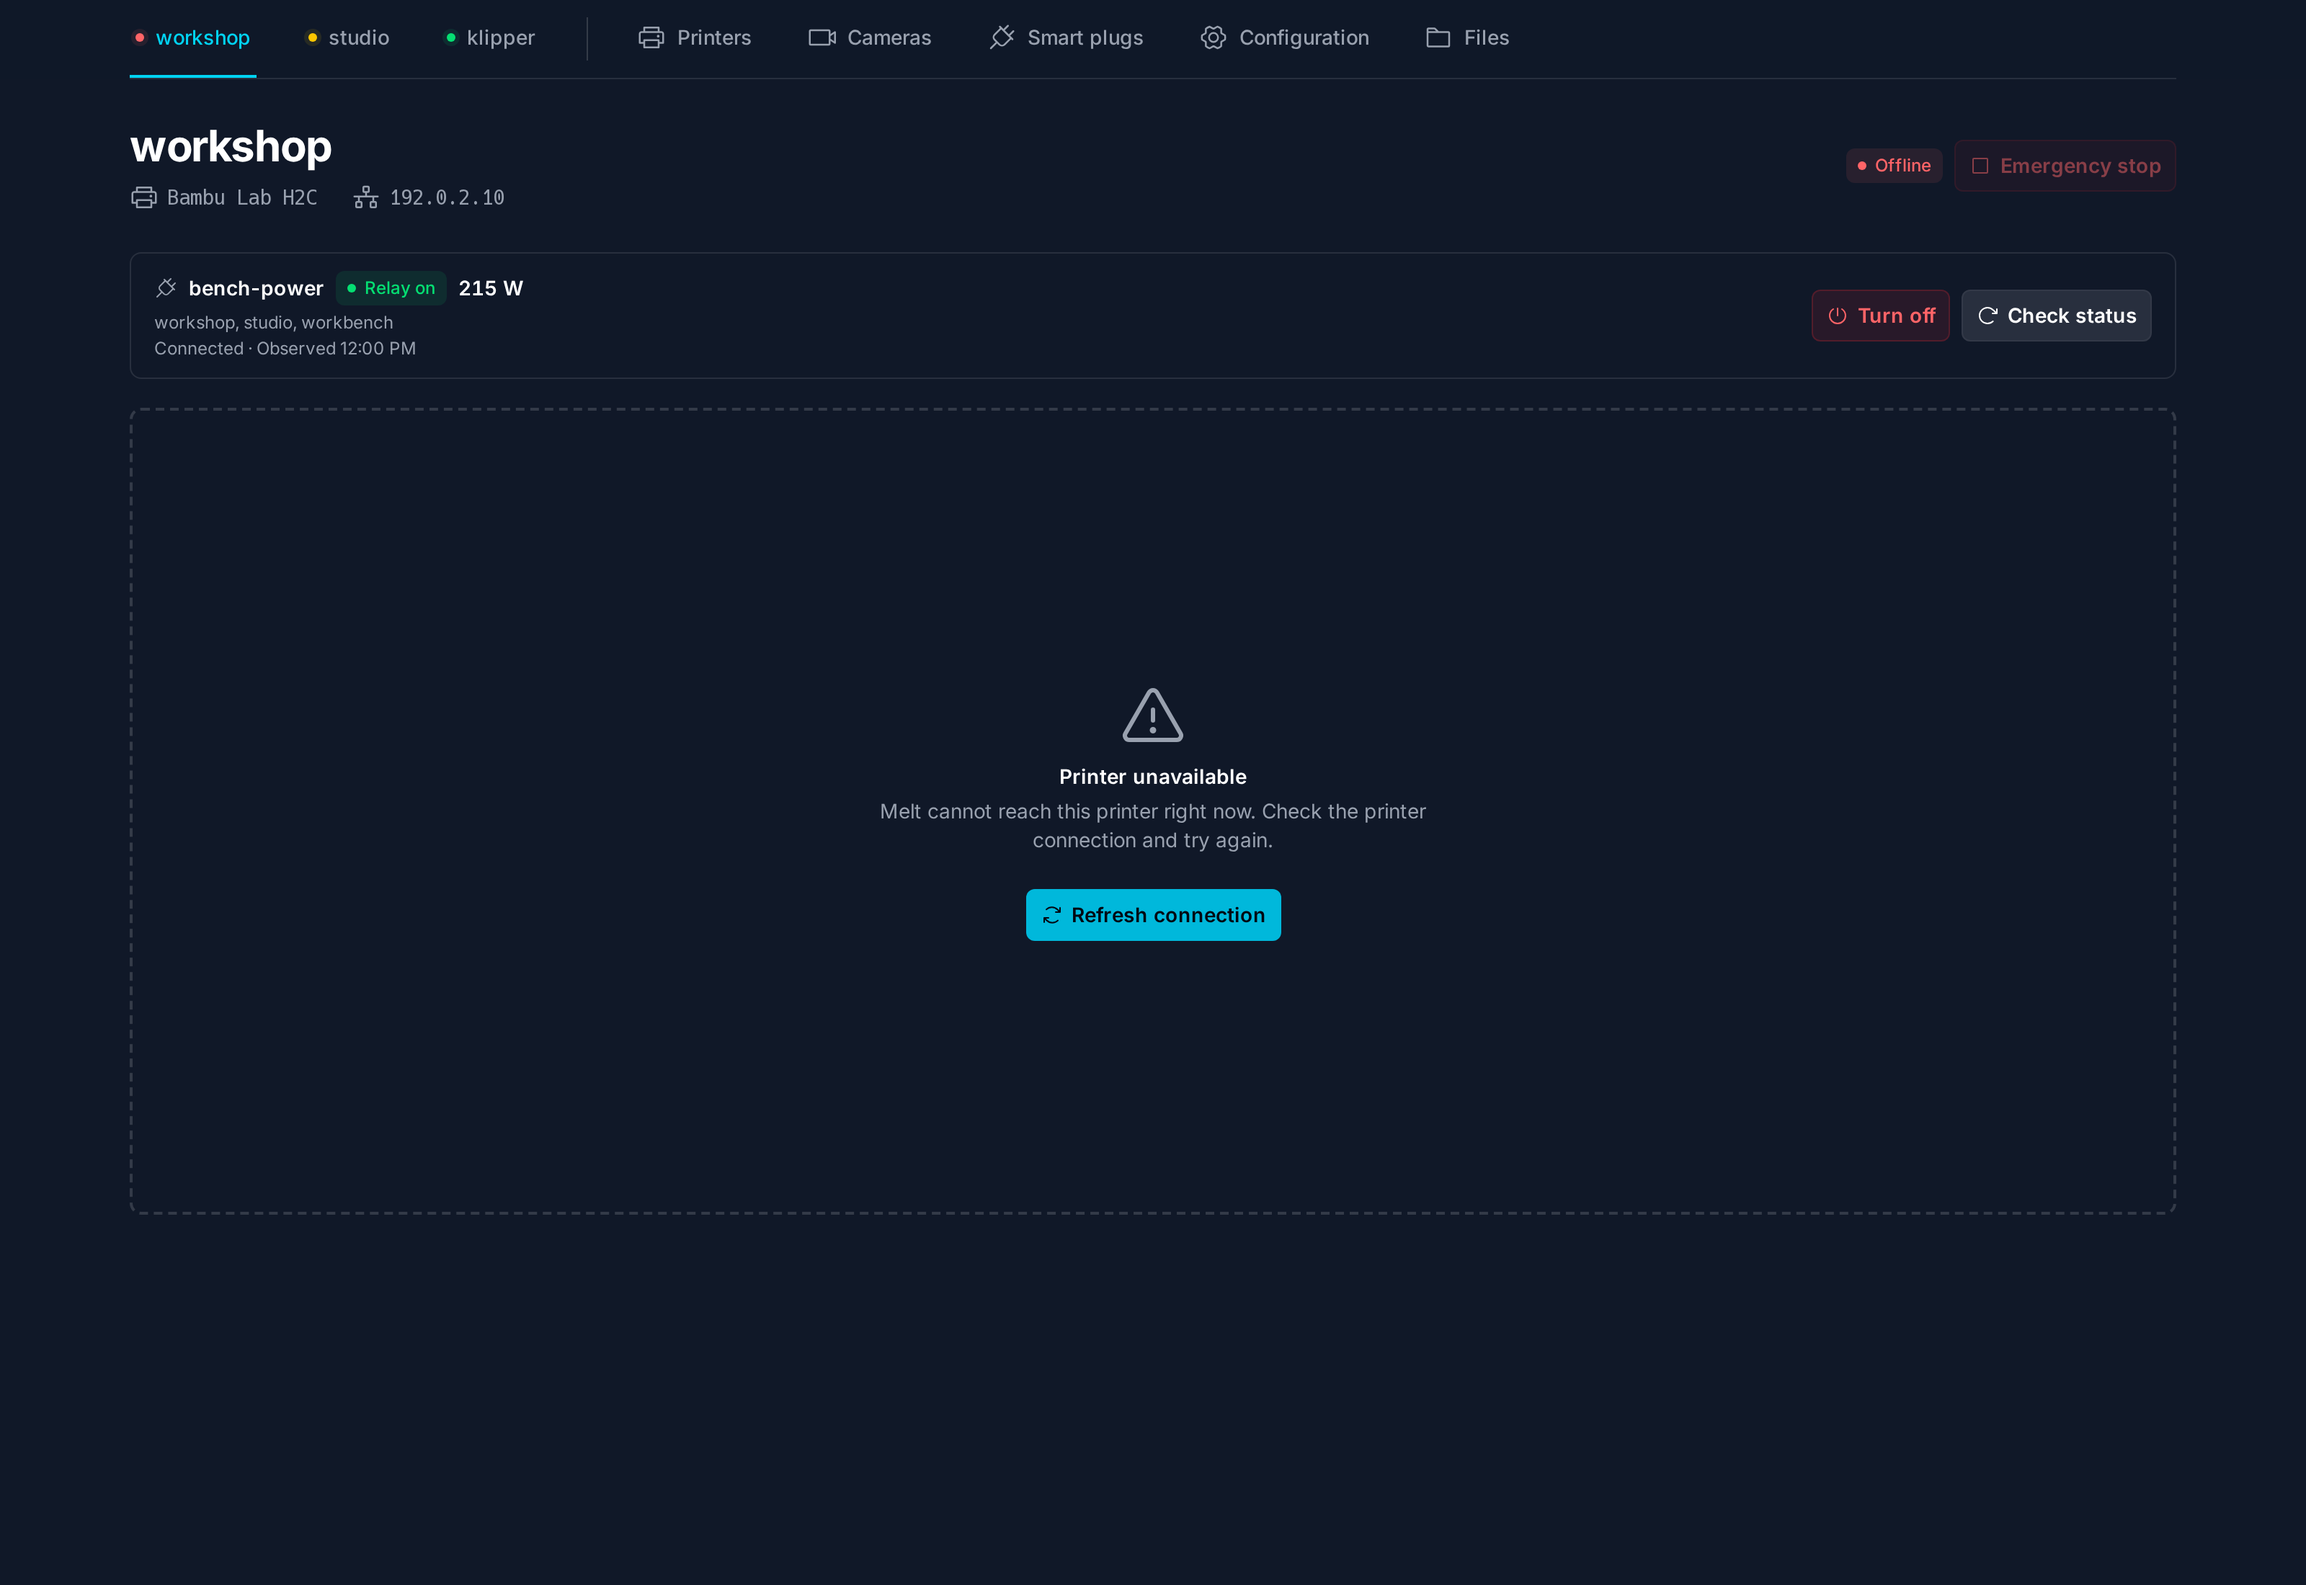
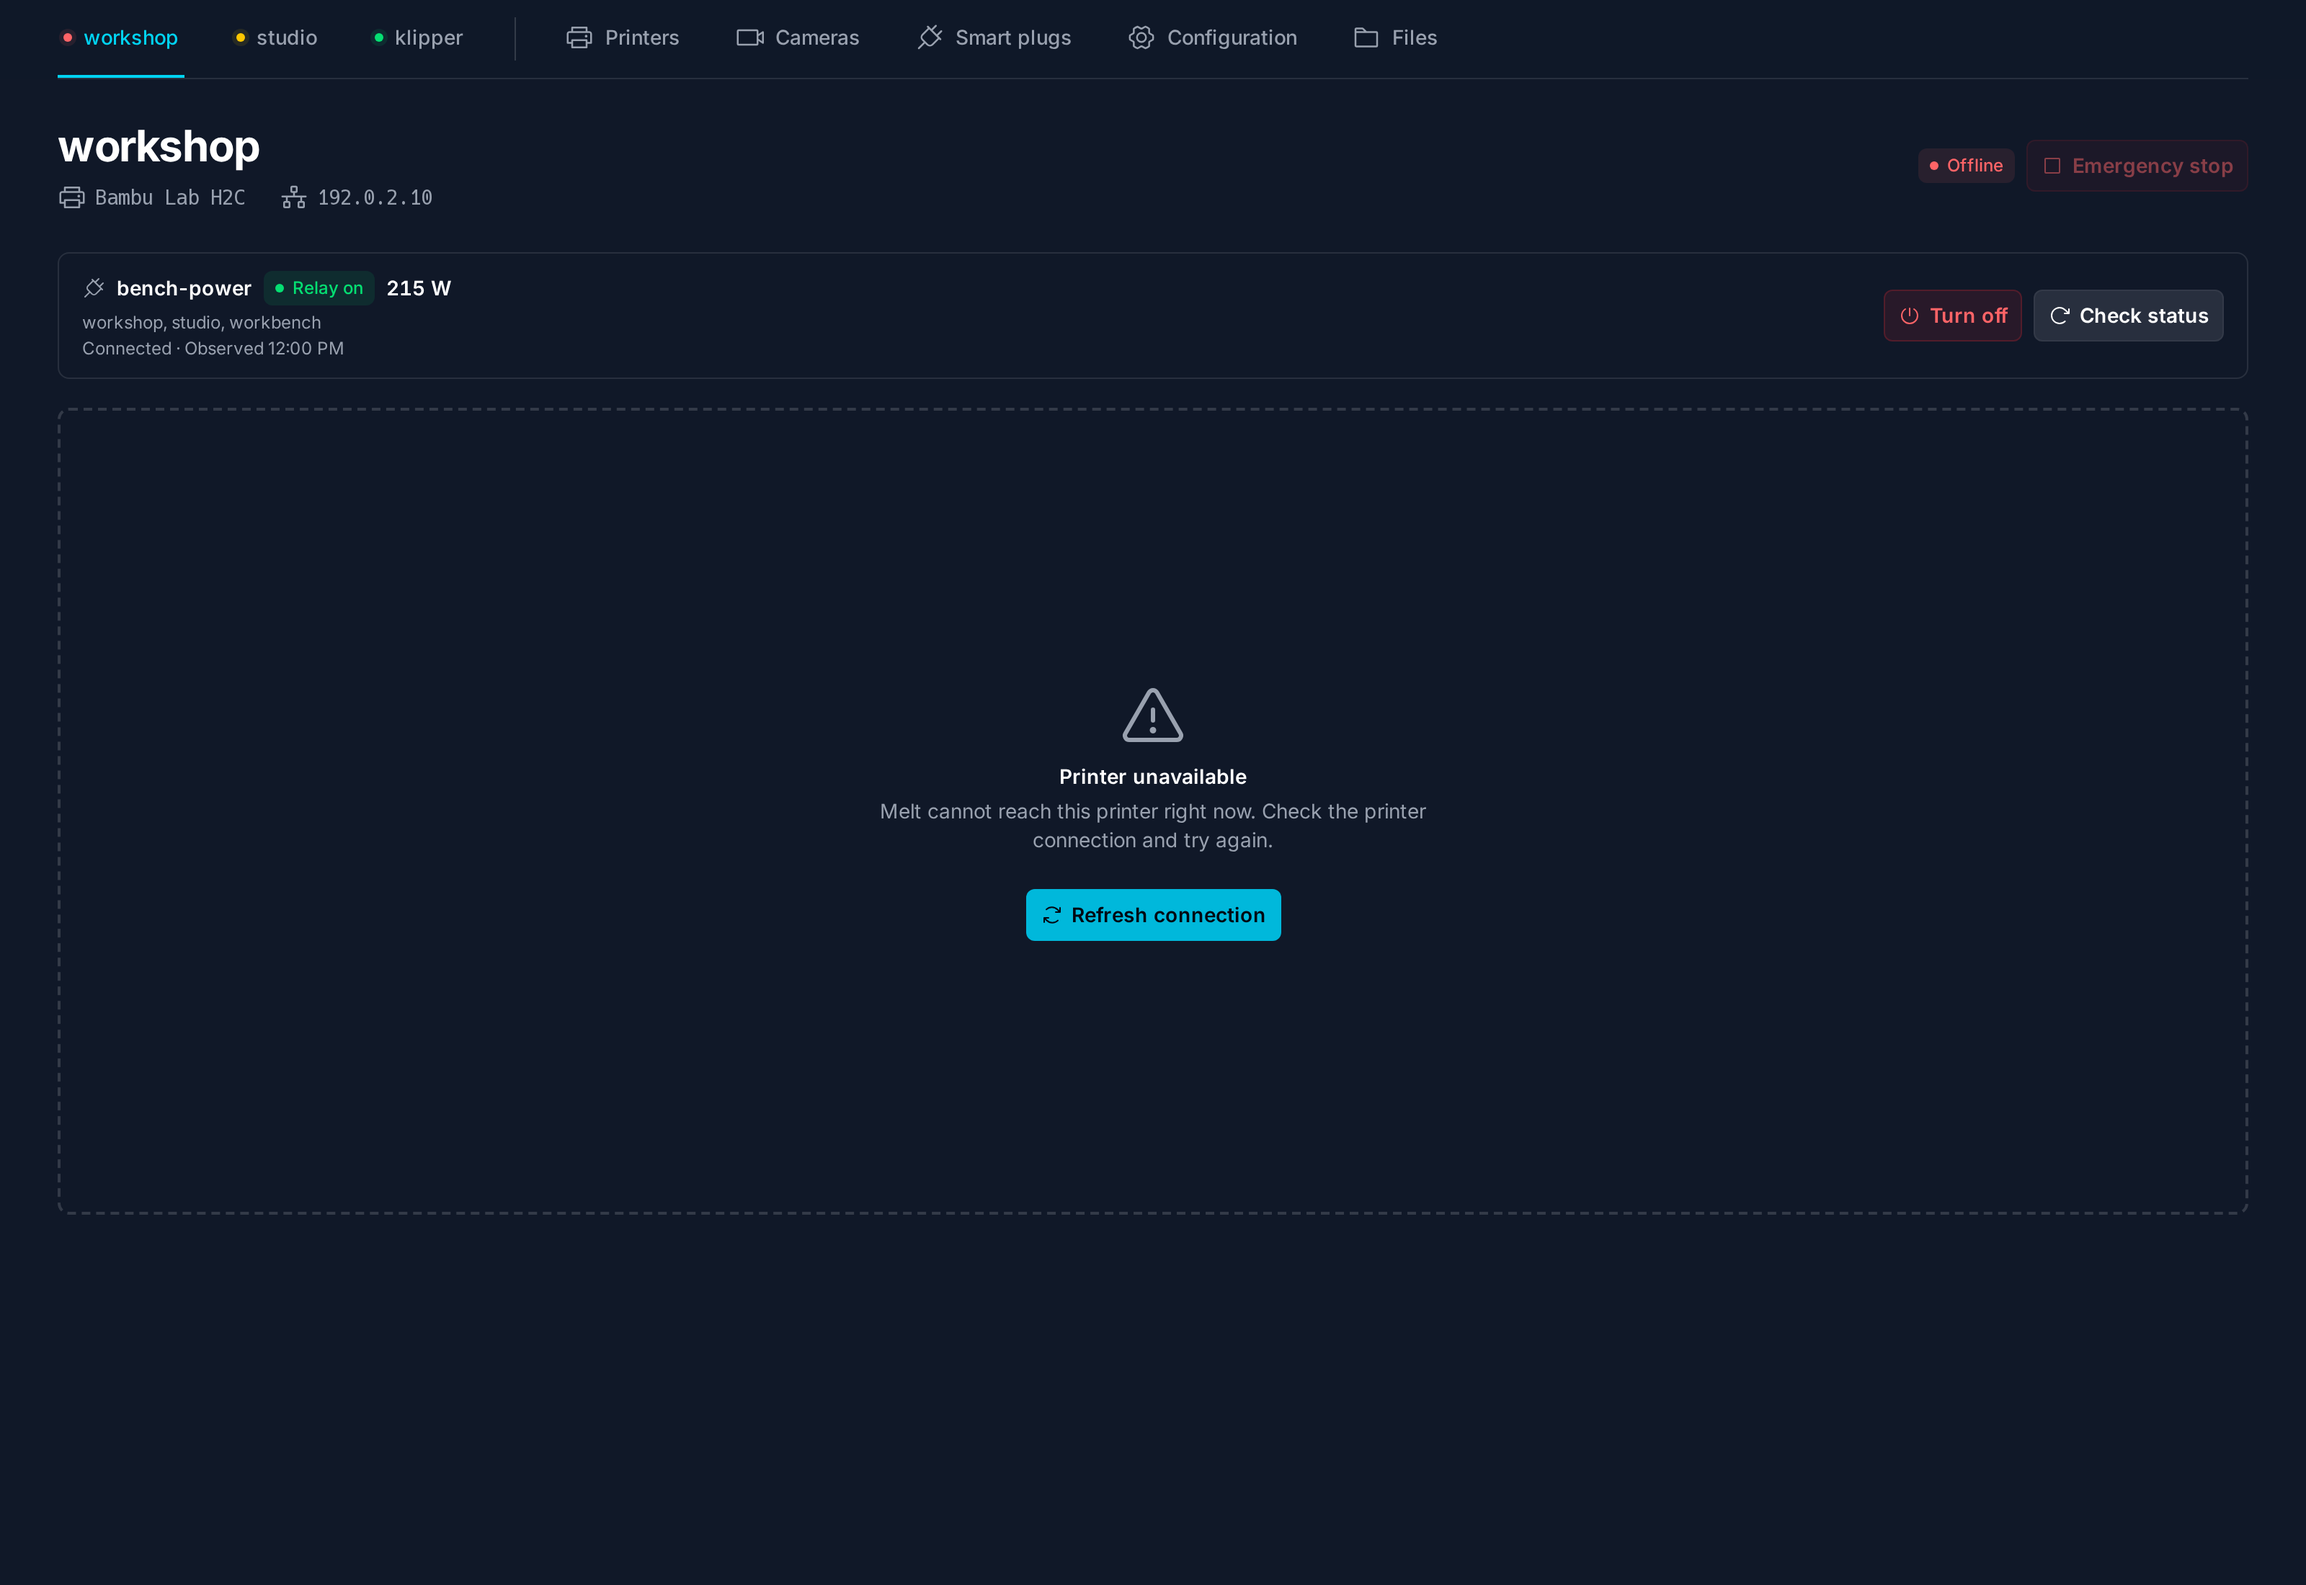
Use full width on Control, Cameras, Plugs and Files; fit camera to stream shape

diff --git a/ui/src/components/CameraViewer.vue b/ui/src/components/CameraViewer.vue
@@ -38,6 +38,7 @@ const canvas = ref<HTMLCanvasElement>()
 const stage = ref<HTMLElement>()
 const canvasActive = ref(false)
 const canvasLive = ref(false)
+const aspect = ref('16 / 9')
 const transport = ref<CameraTransport>()
 const loading = ref(false)
 const error = ref<string>()
@@ -84,9 +85,17 @@ watchEffect(() => {
   if (video.value) video.value.srcObject = mediaStream.value ?? null
 })
 
+watch(canvasLive, (live) => {
+  if (live && canvas.value) fit(canvas.value.width, canvas.value.height)
+})
+
 onScopeDispose(() => void stop())
 
 defineExpose({ refresh })
+
+function fit(width: number, height: number) {
+  if (width && height) aspect.value = `${width} / ${height}`
+}
 
 function message(reason: unknown) {
   return commandMessage(reason, props.t)
@@ -368,12 +377,13 @@ function toggleFullscreen() {
     </CardHeader>
     <div
       ref="stage"
-      class="relative min-h-60 overflow-hidden sm:min-h-77.5"
+      class="relative min-h-60 overflow-hidden"
       :class="hasMedia ? 'bg-black' : 'grid place-items-center bg-gray-100 dark:bg-gray-800'"
+      :style="{ aspectRatio: aspect }"
     >
-      <video v-if="peer" ref="video" :aria-label="label" class="absolute inset-0 size-full object-contain" autoplay muted playsinline />
+      <video v-if="peer" ref="video" :aria-label="label" class="absolute inset-0 size-full object-contain" autoplay muted playsinline @loadedmetadata="fit(video!.videoWidth, video!.videoHeight)" @resize="fit(video!.videoWidth, video!.videoHeight)" />
       <canvas v-else-if="canvasActive" ref="canvas" :aria-label="label" class="absolute inset-0 size-full object-contain" />
-      <img v-else-if="url" :src="url" :alt="label" width="1280" height="720" class="absolute inset-0 size-full object-contain" @error="url = undefined" />
+      <img v-else-if="url" :src="url" :alt="label" width="1280" height="720" class="absolute inset-0 size-full object-contain" @load="fit(($event.target as HTMLImageElement).naturalWidth, ($event.target as HTMLImageElement).naturalHeight)" @error="url = undefined" />
       <div v-else class="relative z-10 text-center">
         <PhWarning class="mx-auto size-8 text-yellow-600 dark:text-yellow-400" aria-hidden="true" />
         <p class="mt-3 font-medium text-gray-900 dark:text-white">{{ t('camera.unavailable') }}</p>

diff --git a/ui/src/App.vue b/ui/src/App.vue
@@ -155,6 +155,8 @@ const slicers = ref<SlicerSetting[]>(defaultSlicers)
 const publicFirmwareCatalogue = ref(false)
 const activePrinter = computed(() => printers.value.find((printer) => printer.name === activePrinterId.value) ?? printers.value[0])
 
+// Dense forms and lists read badly stretched; media-heavy views use the width.
+const capped = computed(() => activeView.value === 'printers' || activeView.value === 'settings')
 const compactNavValue = computed({
   get: () => {
     if (activeView.value !== 'control') return `view:${activeView.value}`
@@ -539,7 +541,7 @@ function requestPrint(file: FileEntry, printer?: string) {
       <!-- Scrolling one axis clips the other, which would cut off the printer
            menu. Only the compact layout below `lg` needs to scroll, and it
            uses a native select that the clip cannot reach. -->
-      <div class="mx-auto max-w-[1500px] overflow-x-auto px-4 sm:px-8 lg:overflow-x-visible lg:px-10">
+      <div :class="capped && 'max-w-[1500px]'" class="mx-auto overflow-x-auto px-4 sm:px-8 lg:overflow-x-visible lg:px-10">
         <nav class="flex min-w-0 items-stretch border-b border-gray-200 sm:min-w-max dark:border-white/10" :aria-label="t('nav.ariaLabel')">
           <div class="grid w-full grid-cols-1 py-2 lg:hidden">
             <select
@@ -656,7 +658,7 @@ function requestPrint(file: FileEntry, printer?: string) {
       </div>
     </header>
 
-    <main id="main-content" tabindex="-1" class="mx-auto max-w-[1500px] py-7 outline-none sm:px-8 lg:px-10">
+    <main id="main-content" tabindex="-1" :class="capped && 'max-w-[1500px]'" class="mx-auto py-7 outline-none sm:px-8 lg:px-10">
       <h1 class="sr-only">{{ t('app.title') }}</h1>
       <!-- Notification -->
       <div aria-live="polite" class="pointer-events-none fixed inset-0 z-50 flex items-end px-4 py-6 sm:p-6">

diff --git a/ui/src/views/ControlView.vue b/ui/src/views/ControlView.vue
@@ -950,7 +950,7 @@ onUnmounted(() => {
           </div>
         </div>
       </section>
-      <section class="grid grid-cols-1 gap-5 xl:grid-cols-[minmax(0,2fr)_minmax(18rem,1fr)]">
+      <section class="grid items-start grid-cols-1 gap-5 xl:grid-cols-[minmax(0,2fr)_minmax(18rem,1fr)]">
         <CameraViewer
           ref="controlCameraViewer"
           :source="controlCameraSource"
@@ -1067,7 +1067,7 @@ onUnmounted(() => {
         </Card>
       </section>
 
-      <section class="mt-5 grid gap-5 lg:grid-cols-2 min-[1180px]:grid-cols-4">
+      <section class="mt-5 grid items-start gap-5 lg:grid-cols-2 min-[1180px]:grid-cols-4">
         <Card v-if="temperatureRows.length">
           <CardHeader :title="t('dashboard.temperature')" :icon="PhThermometerSimple">
             <span v-if="capabilities?.temperatureWrite && selectedStatus?.state !== 'idle'" class="text-xs text-gray-500 dark:text-gray-400">{{ t('control.availableWhenIdle') }}</span>
@@ -1194,7 +1194,7 @@ onUnmounted(() => {
         </Card>
       </section>
 
-      <section class="mt-5 grid gap-5 xl:grid-cols-[1.35fr_1fr]">
+      <section class="mt-5 grid items-start gap-5 xl:grid-cols-[1.35fr_1fr]">
         <!-- Table -->
         <Card v-if="capabilities?.fileList" class="overflow-hidden">
           <CardHeader :title="t('dashboard.files')" :icon="PhFolder">

diff --git a/ui/src/components/PlugControl.vue b/ui/src/components/PlugControl.vue
@@ -132,7 +132,7 @@ function confirmOff() {
         <p class="mt-1 text-xs text-gray-500 dark:text-gray-400">{{ attached }}</p>
         <p class="mt-0.5 text-xs" :class="observation && observation.connection !== 'online' ? 'text-amber-700 dark:text-amber-400' : 'text-gray-500 dark:text-gray-400'">{{ metaLine }}</p>
       </div>
-      <div class="flex flex-wrap gap-2">
+      <div class="ml-auto flex flex-wrap justify-end gap-2">
         <!-- Unknown relay shows both: a guess could hide the action the user needs. -->
         <Button v-if="observation?.relay !== 'on'" variant="secondary" :disabled="busy" :aria-label="t('plugControl.turnOnLabel', { name: plug.name })" @click="setPower('on')"><PhPower class="size-4" aria-hidden="true" /> {{ t('plugControl.on') }}</Button>
         <Button v-if="observation?.relay !== 'off'" variant="danger" :disabled="busy" :aria-label="t('plugControl.turnOffLabel', { name: plug.name })" @click="askOff"><PhPower class="size-4" aria-hidden="true" /> {{ t('plugControl.off') }}</Button>
